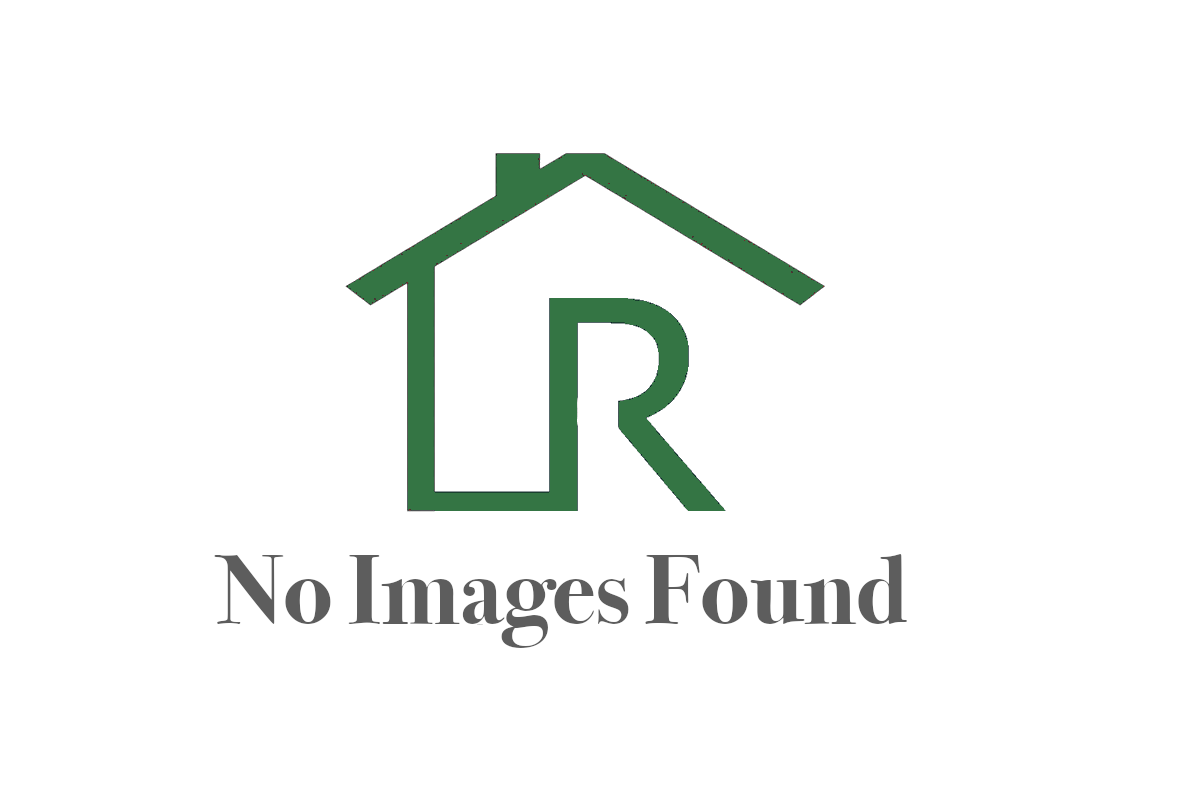
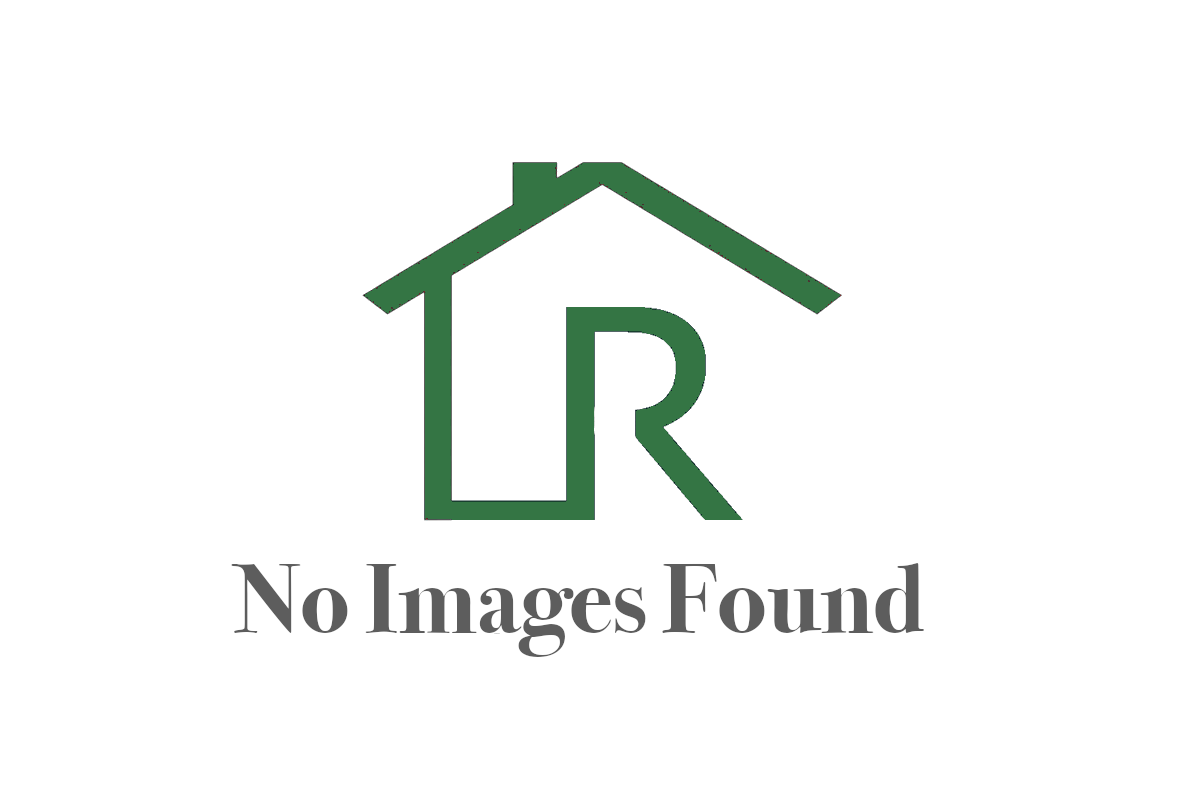
Contact Us Fixed

diff --git a/src/components/RentalCard.tsx b/src/components/RentalCard.tsx
@@ -43,17 +43,106 @@ const RentalCard: React.FC<Props> = ({
         <Text style={{fontWeight: 'bold', fontSize: 20, textAlign: 'center'}}>
           {rental.data.address.fullAddress}
         </Text>
-        <Text>Status of Rental: {rental.data.statusOfRental}</Text>
-        <View style={{flexDirection: 'row'}}>
+        <View
+          style={{
+            flexDirection: 'row',
+            justifyContent: 'space-between',
+            marginTop: '3%',
+          }}>
+          <Text>Status of Rental:</Text>
+          {rental.data.statusOfRental === 'Available' ? (
+            <View
+              style={{
+                flexDirection: 'row',
+                justifyContent: 'center',
+                paddingLeft: '2%',
+              }}>
+              <View style={styles.AvailableStatus} />
+              <Text
+                style={{
+                  fontSize: 14,
+                  textAlign: 'center',
+                  padding: '1%',
+                }}>
+                {rental.data.statusOfRental}
+              </Text>
+            </View>
+          ) : rental.data.statusOfRental === 'Not Renting' ? (
+            <View
+              style={{
+                flexDirection: 'row',
+                justifyContent: 'center',
+                paddingLeft: '2%',
+              }}>
+              <View style={styles.notRentingStatus} />
+              <Text
+                style={{
+                  fontSize: 14,
+                  textAlign: 'center',
+                  padding: '1%',
+                }}>
+                {rental.data.statusOfRental}
+              </Text>
+            </View>
+          ) : rental.data.statusOfRental === 'Occupied' ? (
+            <View
+              style={{
+                flexDirection: 'row',
+                justifyContent: 'center',
+                paddingLeft: '2%',
+              }}>
+              <View style={styles.occupiedStatus} />
+              <Text
+                style={{
+                  fontSize: 14,
+                  textAlign: 'center',
+                  padding: '1%',
+                }}>
+                {rental.data.statusOfRental}
+              </Text>
+            </View>
+          ) : (
+            <View
+              style={{
+                flexDirection: 'row',
+                justifyContent: 'center',
+                paddingLeft: '2%',
+              }}>
+              <View style={styles.unknownStatus} />
+              <Text
+                style={{
+                  fontSize: 14,
+                  textAlign: 'center',
+                  padding: '1%',
+                }}>
+                Unknown
+              </Text>
+            </View>
+          )}
+        </View>
+        <View
+          style={{
+            flexDirection: 'row',
+            justifyContent: 'space-between',
+            marginRight: '1%',
+          }}>
+          <Text>Rating:</Text>
           {rental.data.overallRating.avgOverallRating !== 0 ? (
             <>
-              <Text style={styles.rating}>
-                {rental.data.overallRating.avgOverallRating.toFixed(1)}
-              </Text>
-              <Icon name="star" color="black" size={20} />
+              <View
+                style={{
+                  flexDirection: 'row',
+                  justifyContent: 'space-between',
+                  alignItems:'center'
+                }}>
+                <Text style={styles.rating}>
+                  {rental.data.overallRating.avgOverallRating.toFixed(1)}
+                </Text>
+                <Icon name="star" color="black" size={15} />
+              </View>
             </>
           ) : (
-            <Text>No Ratings Yet</Text>
+            <Text>N/A</Text>
           )}
         </View>
       </Card>
@@ -94,8 +183,37 @@ const RentalCard: React.FC<Props> = ({
 
 const styles = StyleSheet.create({
   rating: {
-    fontSize: 20,
+    fontSize: 16,
     fontWeight: '600',
+    paddingRight:'1%'
+  },
+  occupiedStatus: {
+    width: 10,
+    height: 10,
+    borderRadius: 50,
+    backgroundColor: 'red',
+    alignSelf: 'center',
+  },
+  AvailableStatus: {
+    width: 10,
+    height: 10,
+    borderRadius: 50,
+    backgroundColor: 'green',
+    alignSelf: 'center',
+  },
+  notRentingStatus: {
+    width: 10,
+    height: 10,
+    borderRadius: 50,
+    backgroundColor: 'black',
+    alignSelf: 'center',
+  },
+  unknownStatus: {
+    width: 10,
+    height: 10,
+    borderRadius: 50,
+    backgroundColor: 'gray',
+    alignSelf: 'center',
   },
 });
 

diff --git a/src/screens/SearchViews/CreateReviewScreen.tsx b/src/screens/SearchViews/CreateReviewScreen.tsx
@@ -248,7 +248,7 @@ const CreateReviewScreen: React.FC<CreateReviewProps> = ({
               Post as Anonymous
             </Text>
             <Switch
-              trackColor={{false: 'grey', true: 'green'}}
+              trackColor={{false: 'grey', true: '#347544'}}
               thumbColor={'#f4f3f4'}
               ios_backgroundColor="#3e3e3e"
               onValueChange={toggleSwitch}
@@ -433,7 +433,7 @@ const CreateReviewScreen: React.FC<CreateReviewProps> = ({
         <TouchableOpacity
           style={styles.submitButton}
           onPress={handleReviewSubmit}>
-          <Text style={{fontSize: 16, fontWeight: 'bold', color: 'white'}}>
+          <Text style={{fontSize: 16, fontWeight: 'bold', color: '#347544'}}>
             Publish Review
           </Text>
         </TouchableOpacity>
@@ -457,13 +457,14 @@ const makeStyles = (fontScale: any) =>
     },
     submitButton: {
       alignItems: 'center',
-      backgroundColor: '#1f3839',
-      borderWidth: 1,
+      backgroundColor: 'white',
+      borderWidth: 1.5,
       width: '92%',
       height: '50%',
       alignSelf: 'center',
       justifyContent: 'center',
       borderRadius: 20,
+      borderColor:'#347544',
     },
     yesButton: {
       alignItems: 'center',

diff --git a/src/screens/AccountViews/ActivityScreen.tsx b/src/screens/AccountViews/ActivityScreen.tsx
@@ -108,7 +108,7 @@ const MyReviews: React.FC<MyReviewProps> = ({navigation}) => {
                       handleEditReview(review);
                     }}>
                     <Text style={{fontWeight: 'bold', color: 'white'}}>
-                      View / Edit
+                      Update
                     </Text>
                   </TouchableOpacity>
                 </View>
@@ -152,23 +152,25 @@ const MyReviews: React.FC<MyReviewProps> = ({navigation}) => {
 const styles = StyleSheet.create({
   viewProperty: {
     alignItems: 'center',
-    backgroundColor: 'white',
+    backgroundColor: '#347544',
     borderWidth: 1,
     width: '30%',
     height: 25,
     aligxnSelf: 'center',
     justifyContent: 'center',
     borderRadius: 20,
+    borderColor:'#347544'
   },
   editReview: {
     alignItems: 'center',
-    backgroundColor: '#1f3839',
+    backgroundColor: '#848484',
     borderWidth: 1,
     width: '30%',
     height: 25,
     alignSelf: 'center',
     justifyContent: 'center',
     borderRadius: 20,
+    borderColor:'#848484'
   },
   noReviewsView: {
     flex: 1,

diff --git a/src/screens/AccountViews/ProfileScreen.tsx b/src/screens/AccountViews/ProfileScreen.tsx
@@ -140,7 +140,7 @@ const ProfileScreen: React.FC<ProfileProps> = ({route, navigation}) => {
           borderColor: 'gray',
         }}>
         <TouchableOpacity style={styles.saveButton} onPress={updateProfileInfo}>
-          <Text style={{fontWeight: 'bold', color: 'white', fontSize: 16}}>
+          <Text style={{fontWeight: 'bold', color: '#347544', fontSize: 16}}>
             Save
           </Text>
         </TouchableOpacity>
@@ -175,8 +175,9 @@ const styles = StyleSheet.create({
   },
   saveButton: {
     alignItems: 'center',
-    backgroundColor: '#1f3839',
-    borderWidth: 1,
+    backgroundColor: 'white',
+    borderColor:'#347544',
+    borderWidth: 1.5,
     width: '92%',
     height: '50%',
     alignSelf: 'center',

diff --git a/src/screens/SearchViews/SearchRentals.tsx b/src/screens/SearchViews/SearchRentals.tsx
@@ -348,7 +348,7 @@ const SearchRentals: React.FC<SearchRentalsProps> = ({navigation}) => {
             <TouchableOpacity
               onPress={handleLogoutAttempt}
               style={{marginTop: 25, position: 'absolute', right: 15}}>
-              <Text style={{color: 'blue'}}>Clear</Text>
+              <Text style={{color: 'black'}}>Clear</Text>
             </TouchableOpacity>
           </View>
           {isLoading ? (
@@ -505,6 +505,7 @@ const SearchRentals: React.FC<SearchRentalsProps> = ({navigation}) => {
 const styles = StyleSheet.create({
   container: {
     flex: 1,
+    backgroundColor:'white'
   },
   button: {
     backgroundColor: '#3498db',

diff --git a/src/screens/AccountViews/PropertiesScreen.tsx b/src/screens/AccountViews/PropertiesScreen.tsx
@@ -74,7 +74,8 @@ const PropertiesScreen: React.FC<PropertiesProps> = ({navigation}) => {
               <ScrollView
                 horizontal={false}
                 style={{marginBottom: 30}}
-                contentContainerStyle={{flexGrow: 1}}>
+                contentContainerStyle={{flexGrow: 1}}
+                showsVerticalScrollIndicator={false}>
                 {allProperties.map(property => (
                   <AdvancedRentalCard
                     key={property.homeId}

diff --git a/src/screens/AccountViews/AccountScreen.tsx b/src/screens/AccountViews/AccountScreen.tsx
@@ -53,7 +53,7 @@ const AccountScreen: React.FC<AccountProps> = ({navigation}) => {
   const handleContact = async () => {
     const client = StreamChat.getInstance('pn73rx5c7g26');
     const adminId = '0bXFuQZ3OmRA09Tr311JSBizUjs2';
-    const filter = {type: 'messaging', members: {$in: [adminId]}};
+    const filter = {type: 'messaging', members: {$eq: [adminId, userId]}};
     const channels = await client.queryChannels(filter);
 
     if (channels.length > 0) {

diff --git a/src/screens/SearchViews/RentalResults.tsx b/src/screens/SearchViews/RentalResults.tsx
@@ -51,7 +51,7 @@ const RentalResults: React.FC<SearchRentalsProps> = ({route, navigation}) => {
   return (
     <View style={{marginBottom: 15}}>
       <ScrollView
-        style={{marginTop: 10, height: '100%'}}
+        style={{marginTop: 10, height: '100%', backgroundColor:'white'}}
         contentContainerStyle={{flexGrow: 1}}>
         {route.params.rentals.map(rental => (
           <RentalCard

diff --git a/src/screens/ChatViews/ChatRoom.tsx b/src/screens/ChatViews/ChatRoom.tsx
@@ -28,7 +28,7 @@ const ChatRoom: React.FC<ChatRoomProps> = ({navigation}) => {
           onPress={() => {
             navigation.goBack();
           }}>
-          <Icon name="chevron-back-outline" color={'grey'} size={25} />
+          <Icon name="chevron-back-outline" color={'white'} size={25} />
         </TouchableOpacity>
       ),
     });

diff --git a/src/components/ImageList.tsx b/src/components/ImageList.tsx
@@ -44,7 +44,6 @@ const ImageList = ({
               source={require('../images/No_Images_Found.png')}
               style={{
                 margin: margin,
-                marginBottom: 7,
                 width: width,
                 height: height,
                 borderRadius: borderRadius,

diff --git a/src/navigation/SearchStack.tsx b/src/navigation/SearchStack.tsx
@@ -32,7 +32,7 @@ const SearchStack = () => {
         component={RentalResults}
         options={{
           title: 'Search Results',
-          headerBackTitle: '',
+          headerBackTitleVisible: false,
         }}
       />
       <Stack.Screen
